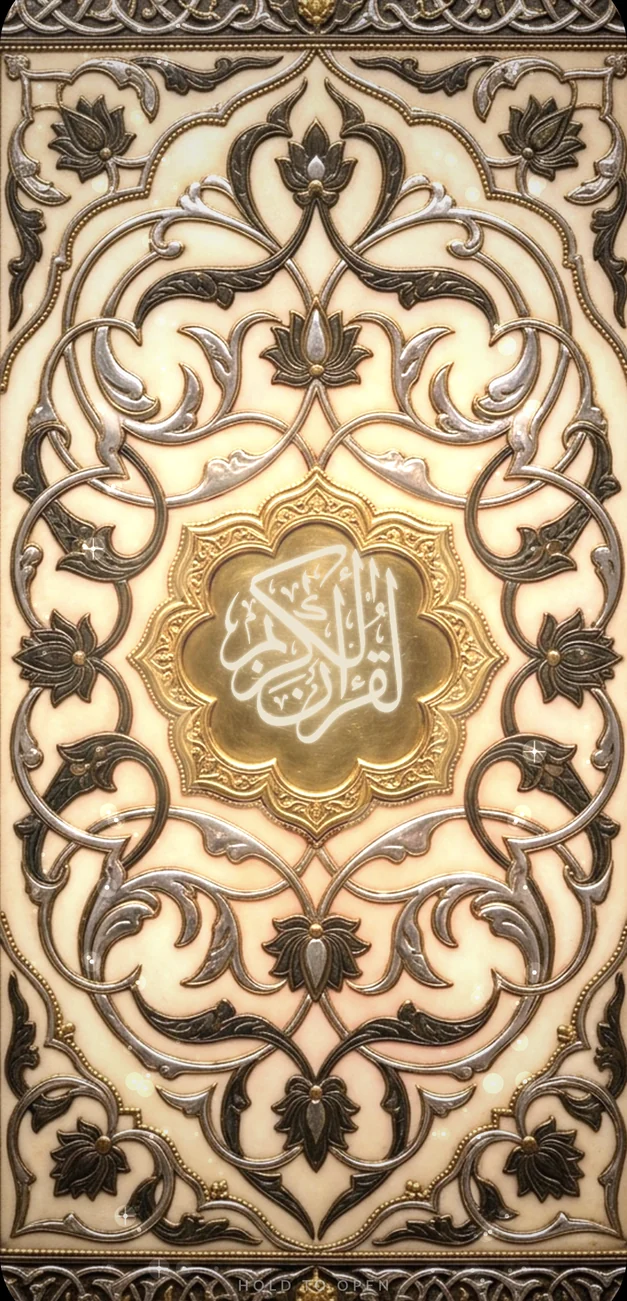
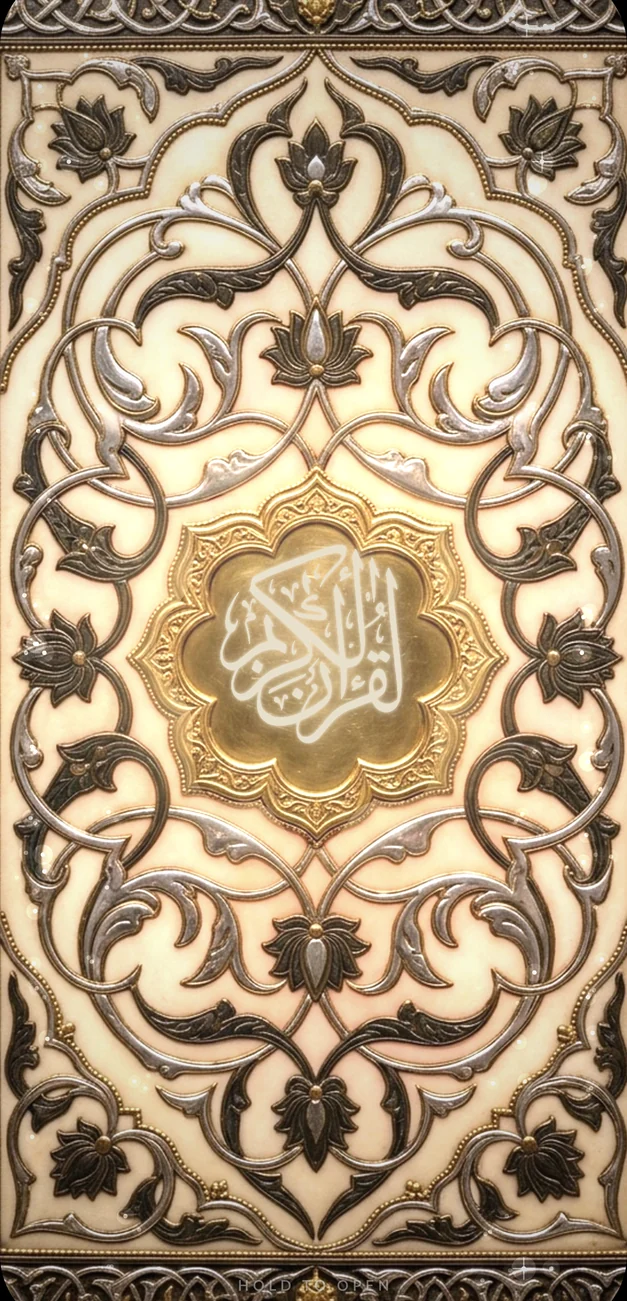
Platinum at eighteen months
Matches the app: platinum begins at day 548 and the ladder ends at 1643.
The scrubber derives each metal's length from the start of the next, so
only the starts and the end needed changing -- and the render each metal
crossfades to is photographed at the new mid-metal days.

Claude-Session: https://claude.ai/code/session_019SMqzEHXGL7a2B2GUXeJxk

diff --git a/index.html b/index.html
@@ -323,11 +323,11 @@
           <span class="scrub-metal" id="metalName">Iron</span>
           <span class="scrub-step" id="stepName">Raw · day 1</span>
         </div>
-        <input id="days" type="range" min="0" max="2190" value="620" step="1"
+        <input id="days" type="range" min="0" max="1643" value="460" step="1"
                aria-label="Days read, to see how the cover changes">
         <p class="scrub-caption">Drag to walk the cover through five metals and seven worked
           steps each — thirty-five stages in all. Bronze at a month, silver at three,
-          gold at a year, platinum at three.</p>
+          gold at a year, platinum at eighteen months.</p>
       </div>
     </div>
 
@@ -449,7 +449,7 @@
       <h2>Five metals, thirty-five stages</h2>
       <p class="lede">The app opens on a book, not a menu, and the book is worked by reading.
         Iron from the first day, bronze at a month, silver at three, gold at a year and
-        platinum at three. Choose one to bring it forward.</p>
+        platinum at eighteen months. Choose one to bring it forward.</p>
     </div>
 
     <div class="fan" id="fan">
@@ -471,7 +471,7 @@
       </button>
       <button class="fan-card" data-metal="platinum" style="--i:4" aria-label="Platinum">
         <span class="fan-phone"><img src="img/cover_platinum.webp" alt=""></span>
-        <span class="fan-label"><b>Platinum</b><i>from day 1,095</i></span>
+        <span class="fan-label"><b>Platinum</b><i>from day 548</i></span>
       </button>
     </div>
 
@@ -731,7 +731,7 @@ keylist.addEventListener('mouseleave', function(){ if(activeRule === null) showR
    same numbers the app keeps in metalStarts -- and `days` is how long it then
    lasts, which is simply the distance to the next one. The ladder ends at
    2190, where the app's lastCoverDay puts it. */
-const LAST_DAY = 2190;
+const LAST_DAY = 1643;
 /* `shot` is the day each render was photographed, which is what the scrubber
    walks between. The plate used to be one gold image tinted per metal, and a
    tint cannot put light into the Name: at platinum the app lifts the
@@ -740,11 +740,11 @@ const LAST_DAY = 2190;
    are the app's own renders, so whatever the cover does at that day is in
    the picture already. */
 const METALS = [
-  {name:'Iron',     start:0,    shot:15,   src:'img/cover_iron.webp',     gleam:.42},
-  {name:'Bronze',   start:30,   shot:60,   src:'img/cover_bronze.webp',   gleam:.60},
-  {name:'Silver',   start:90,   shot:227,  src:'img/cover_silver.webp',   gleam:.80},
-  {name:'Gold',     start:365,  shot:730,  src:'img/cover_gold.webp',     gleam:.95},
-  {name:'Platinum', start:1095, shot:1950, src:'img/cover_platinum.webp', gleam:1.10}
+  {name:'Iron',     start:0,    shot:13,   src:'img/cover_iron.webp',     gleam:.42},
+  {name:'Bronze',   start:30,   shot:56,   src:'img/cover_bronze.webp',   gleam:.60},
+  {name:'Silver',   start:90,   shot:208,  src:'img/cover_silver.webp',   gleam:.80},
+  {name:'Gold',     start:365,  shot:443,  src:'img/cover_gold.webp',     gleam:.95},
+  {name:'Platinum', start:548,  shot:1350, src:'img/cover_platinum.webp', gleam:1.10}
 ];
 METALS.forEach(function(m,i){
   m.days = (i === METALS.length - 1 ? LAST_DAY : METALS[i+1].start) - m.start;
